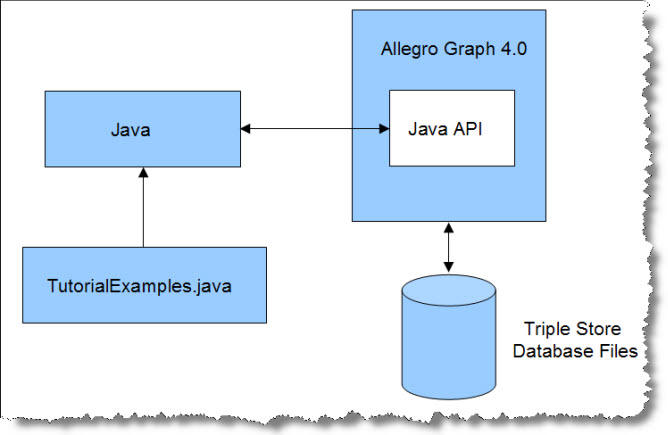
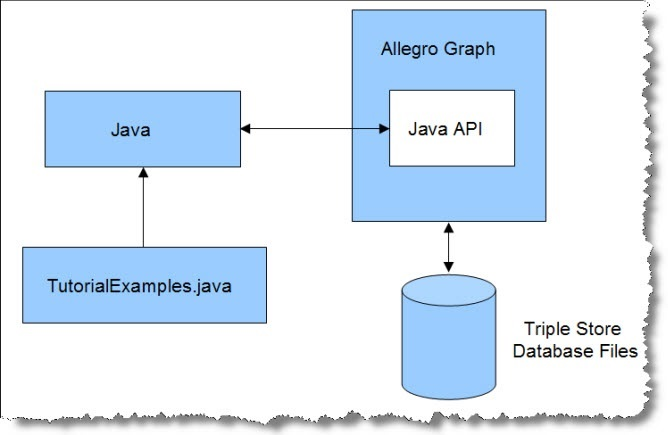
Changed file names with 40 to no version indicated, updated refs to AG version
The refs are to 5.0 or eliminated (i.e. just AllegroGraph, no
version).  Filenames with 40 are now filenames without version
indicator. Made links to docs /current/ rather than v4.0 or v5.0.

diff --git a/src/tutorial/jena-tutorial.html b/src/tutorial/jena-tutorial.html
@@ -1,7 +1,7 @@
 <html>
 <head>
       <meta http-equiv="Content-Type" content="text/html; charset=ISO-8859-1" >
-<title>Jena API Tutorial for AllegroGraph 4</title>
+<title>Jena API Tutorial for AllegroGraph</title>
 
 <style type="text/css">
 
@@ -11,8 +11,8 @@
 </style>
 </head>
 <body>
-<h1>Java Jena API Tutorial for AllegroGraph 4</h1>
-<p>This is an introduction to the Jena client API to the AllegroGraph 4 RDFStore&#8482; from <a href="http://agraph.franz.com/allegrograph/">Franz Inc.</a> </p>
+<h1>Java Jena API Tutorial for AllegroGraph</h1>
+<p>This is an introduction to the Jena client API to the AllegroGraph RDFStore&#8482; from <a href="http://agraph.franz.com/allegrograph/">Franz Inc.</a> </p>
 <p>
 The Java Jena API offers convenient and efficient
 access to an AllegroGraph server from a Java-based application.  This API provides methods for
@@ -57,7 +57,7 @@ creating, querying and maintaining RDF data, and for managing the stored triples
 <p>The Jena client tutorial rests on a simple architecture involving AllegroGraph, disk-based data files, Java, and a file of examples called JenaTutorialExamples.java.</p>
 <table width="964" border="0">
   <tr>
-    <td width="286"><p>The AllegroGraph 4 Java client distribution contains the Java Jena API. </p>
+    <td width="286"><p>The AllegroGraph Java client distribution contains the Java Jena API. </p>
     <p>The Java client communicates with the AllegroGraph Server through HTTP port 10035 in this tutorial. Java and AllegroGraph may be installed on the same computer, but in practice one server is shared by multiple clients running on different machines. </p>
     <p>Load JenaTutorialExamples.java into Java to view the tutorial examples. </p></td>
     <td width="668"><img src="allegrographdiagramJena.jpg" width="668" height="443"></td>
@@ -121,7 +121,7 @@ In Windows XP, you can set an environment variable by
 </ol>
 -->
 <h2 id="PrerequisitesLinux">Prerequisites (Linux) &nbsp;&nbsp;<a class="returnlink" href="#Contents">Return to Top</a></h2>
-<p>The tutorial examples can be run on a Linux system, running AllegroGraph and the examples on the same computer (&quot;localhost&quot;). The tutorial assumes that AllegroGraph has been installed and configured using the procedure posted on <a href="/agraph/support/documentation/v4/server-installation.html">this webpage</a>. The Java Jena API and the Jena tutorial are bundled with the AllegroGraph Java Client. </p>
+<p>The tutorial examples can be run on a Linux system, running AllegroGraph and the examples on the same computer (&quot;localhost&quot;). The tutorial assumes that AllegroGraph has been installed and configured using the procedure posted on <a href="/agraph/support/documentation/current/server-installation.html">this webpage</a>. The Java Jena API and the Jena tutorial are bundled with the AllegroGraph Java Client. </p>
 <h2 id="Terminology">Terminology&nbsp;&nbsp;&nbsp;<a class="returnlink" href="#Contents">Return to Top</a></h2>
 <p>We need to clarify some terminology before proceeding. </p>
 <ul>

diff --git a/src/tutorial/java-tutorial.html b/src/tutorial/java-tutorial.html
@@ -1,7 +1,7 @@
 <html>
 <head>
       <meta http-equiv="Content-Type" content="text/html; charset=ISO-8859-1" >
-<title>Java API Tutorial for AllegroGraph 4</title>
+<title>Java API Tutorial for AllegroGraph</title>
 
 <style type="text/css">
 
@@ -12,8 +12,8 @@
 </head>
 <body>
 
-<h1>Java Sesame API Tutorial for AllegroGraph 4</h1>
-<p>This is an introduction to the Java client API to the AllegroGraph 4 RDFStore&#8482; from <a href="http://agraph.franz.com/allegrograph/">Franz Inc.</a> </p>
+<h1>Java Sesame API Tutorial for AllegroGraph</h1>
+<p>This is an introduction to the Java client API to the AllegroGraph RDFStore&#8482; from <a href="http://agraph.franz.com/allegrograph/">Franz Inc.</a> </p>
 <p>
 The Java Sesame API offers convenient and efficient
 access to an AllegroGraph server from a Java-based application.  This API provides methods for
@@ -60,7 +60,7 @@ creating, querying and maintaining RDF data, and for managing the stored triples
 <p>The Java client tutorial rests on a simple architecture involving AllegroGraph, disk-based data files, Java, and a file of Java examples called TutorialExamples.java.</p>
 <table width="964" border="0">
   <tr>
-    <td width="286"><p>The AllegroGraph 4 Java client distribution contains the Java Sesame API. </p>
+    <td width="286"><p>The AllegroGraph 5 Java client distribution contains the Java Sesame API. </p>
     <p>The Java client communicates with the AllegroGraph Server through HTTP port 10035 in this tutorial. Java and AllegroGraph may be installed on the same computer, but in practice one server is shared by multiple clients running on different machines. </p>
     <p>Load TutorialExamples.java into Java to view the tutorial examples. </p></td>
     <td width="668"><img src="allegrographdiagramJava.jpg" width="668" height="443"></td>
@@ -124,7 +124,7 @@ In Windows XP, you can set an environment variable by
 </ol>
 -->
 <h2 id="PrerequisitesLinux">Prerequisites (Linux) &nbsp;&nbsp;<a class="returnlink" href="#Contents">Return to Top</a></h2>
-<p>The tutorial examples can be run on a Linux system, running AllegroGraph and the examples on the same computer (&quot;localhost&quot;). The tutorial assumes that AllegroGraph has been installed and configured using the procedure posted on <a href="http://www.franz.com/agraph/support/documentation/v4/server-installation.html">this webpage</a>. </p>
+<p>The tutorial examples can be run on a Linux system, running AllegroGraph and the examples on the same computer (&quot;localhost&quot;). The tutorial assumes that AllegroGraph has been installed and configured using the procedure posted on <a href="http://www.franz.com/agraph/support/documentation/current/server-installation.html">this webpage</a>. </p>
 <h2 id="Terminology">Terminology&nbsp;&nbsp;&nbsp;<a class="returnlink" href="#Contents">Return to Top</a></h2>
 <p>We need to clarify some terminology before proceeding. </p>
 <ul>
